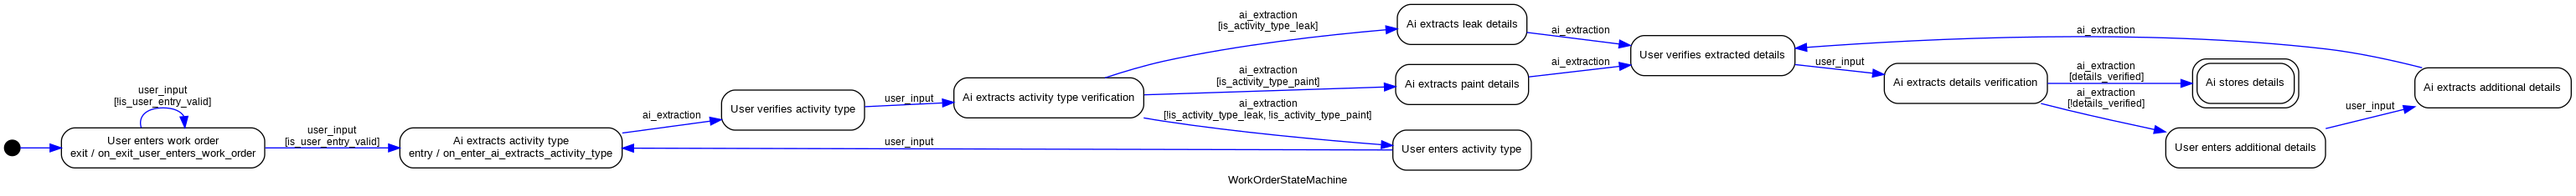
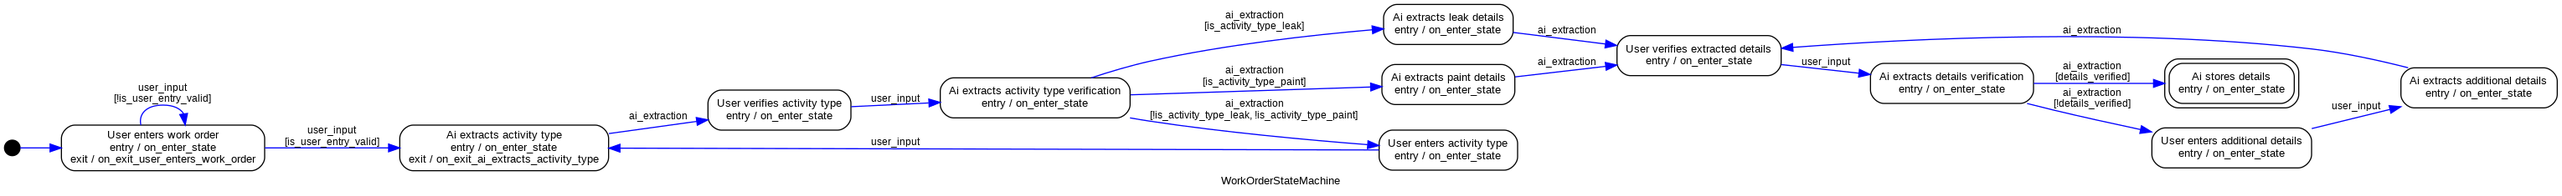
working with sunny day scenario

diff --git a/main.py b/main.py
@@ -1,5 +1,6 @@
 from typing import Optional
 
+from jinja2 import Template
 from loguru import logger
 from statemachine import State, StateMachine
 from pydantic import BaseModel, Field
@@ -60,24 +61,62 @@ class WorkOrderStateMachine(StateMachine):
     )
 
     def __init__(self, word_order_record: WorkOrderRecord):
-        super(WorkOrderStateMachine, self).__init__()
         self.record = word_order_record
-        self.dialogue: list[tuple[str, str]] = [("ai", self.current_state_value)]
+        self.dialogue: list[tuple[str, str]] = list()  # [("ai", self.current_state_value.render())]
+        super(WorkOrderStateMachine, self).__init__()
 
     # EVENT HANDLERS
     def on_user_input(self, *args, **kwargs):
-        logger.info(f"User input received: {args} and {kwargs}")
+        """
+        This hook gets triggered when a "user_input" event is received. It adds the user input to the dialogue
+        list (as the tuple ("user", user_input)) and triggers the AI background process.
+
+        The state machine will then progress into the next state which will be a "waiting for AI" state.
+
+        :param args:
+        :param kwargs:
+        :return:
+        """
+        logger.debug(f"User input received: {args} and {kwargs}")
         self.dialogue.append(("user", args[0]))
         # self.prompt = kwargs["target"].value.render(self.record.dict())
         # call the LLM to interpret the prompt
 
-    def on_ai_extraction(self, *args):
-        logger.info(f"AI extraction received: {args}")
-        self.dialogue.append(("ai", args[0]))
+    def on_ai_extraction(self, *args, target: State):
+        """
+        This hook get triggered when an "ai_extraction" event is received. It adds the AI response to the dialogue
+        list as the tuple ("ai-response", ai_response).
+
+        This hook then looks at the 'value' of the target state - which is assumed to be a Jinja template - and renders
+        that template using the values of `self.record` and the template variable `ai_response` with the raw
+        response that is received from the AI. The rendering of that template is then added to the dialogue
+        list as the tuple ("ai", ai_chat_response).
+
+        The state machine will then transfer into the next state which will be a "waiting for user input" state.
+
+        :param args:
+        :param target: the `State` that the state machine will move into after this event.
+        :return:
+        """
+        logger.debug(f"AI extraction received: {args}")
+        ai_response = args[0]
+        self.dialogue.append(("ai-response", ai_response))
+
+        if isinstance(target.value, Template):
+            template_values = self.record.dict()
+            template_values["ai_response"] = ai_response
+            ai_chat_response = target.value.render(template_values)
+            self.dialogue.append(("ai", ai_chat_response))
+
+    def on_enter_state(self):
+        if len(self.dialogue) == 0:
+            logger.info("START")
+        else:
+            logger.info(f">> {self.dialogue[-1][0].upper()}: {self.dialogue[-1][1]}")
 
     # VALIDATIONS AND CONDITIONS
     def is_user_entry_valid(self, event_data: EventData):
-        logger.info("is user entry valid", event_data)
+        logger.debug("is user entry valid", event_data)
         return event_data.args is not None and len(event_data.args) > 0 and event_data.args[0] != ""
 
     def is_valid_ai_response(self, event_data: EventData):
@@ -91,19 +130,19 @@ class WorkOrderStateMachine(StateMachine):
             return ai_response.split(" ")[1] == target_activity_type
 
     def is_activity_type_leak(self, event_data: EventData):
-        logger.info("is activity_type 'leak'")
+        logger.debug("is activity_type 'leak'")
         return self._is_activity_type(event_data.args[0], "leak")
 
     def is_activity_type_paint(self, event_data: EventData):
-        logger.info("is activity_type 'paint'")
+        logger.debug("is activity_type 'paint'")
         return self._is_activity_type(event_data.args[0], "paint")
 
     # DATA EXTRACTORS
     def on_exit_user_enters_work_order(self, user_input):
-        logger.info("on exit user enters work order", user_input)
+        logger.debug("on exit user enters work order", user_input)
         self.record.work_order_summary = user_input
 
-    def on_enter_ai_extracts_activity_type(self, ai_response: str):
+    def on_exit_ai_extracts_activity_type(self, ai_response: str):
         self.record.activity_type = ai_response
         return self.record.activity_type
 
@@ -118,15 +157,15 @@ if __name__ == "__main__":
     dot = graph()
     dot.write_png("work-order-state-machine.png")
 
-    logger.info(f"BOT: {sm.current_state.value.render(sm.record.dict())}")
+    # logger.debug(f"BOT: {sm.current_state.value.render(sm.record.dict())}")
     sm.user_input("I repaired a leak")
+    logger.debug(sm)
 
-    logger.info(sm)
     sm.ai_extraction(ai.extract_activity_type(sm.dialogue[-1][1]))
-    logger.info(sm)
+    logger.debug(sm)
 
     sm.user_input("yes")
-    logger.info(sm)
+    logger.debug(sm)
 
     sm.ai_extraction(ai.extract_activity_type_verification(sm.dialogue[-1][1]))
-    logger.info(sm)
+    logger.debug(sm)
